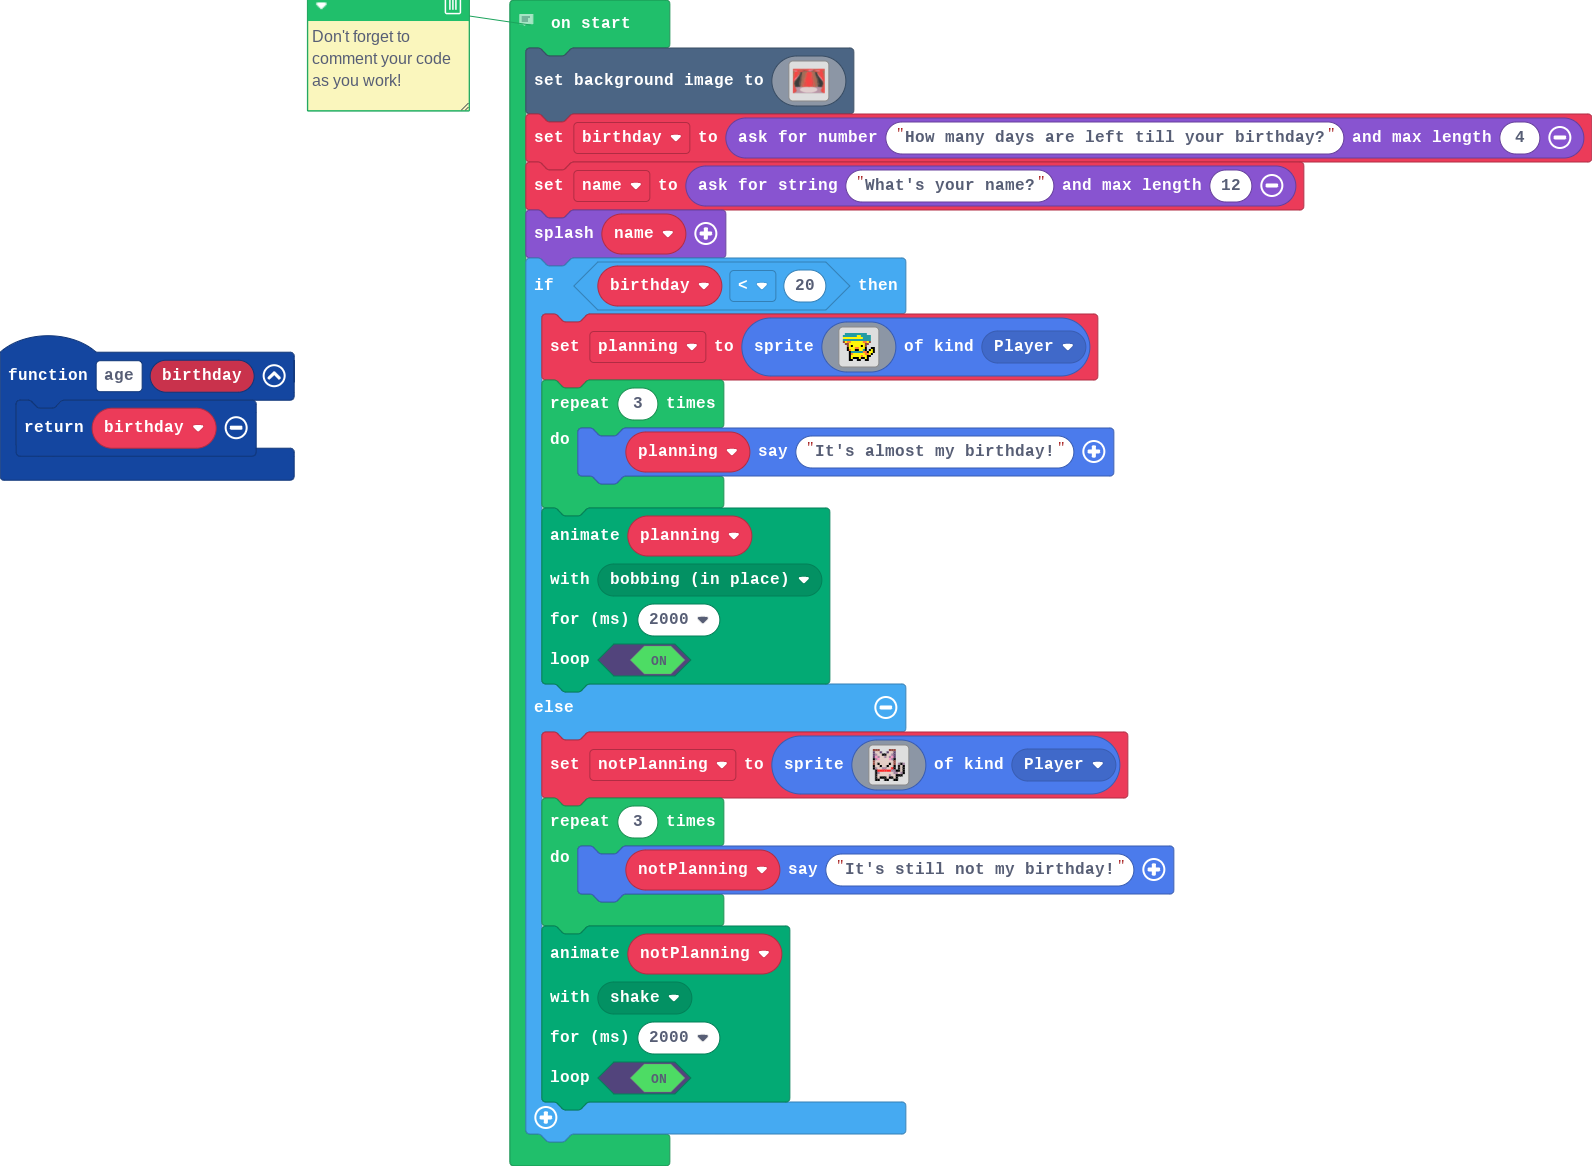
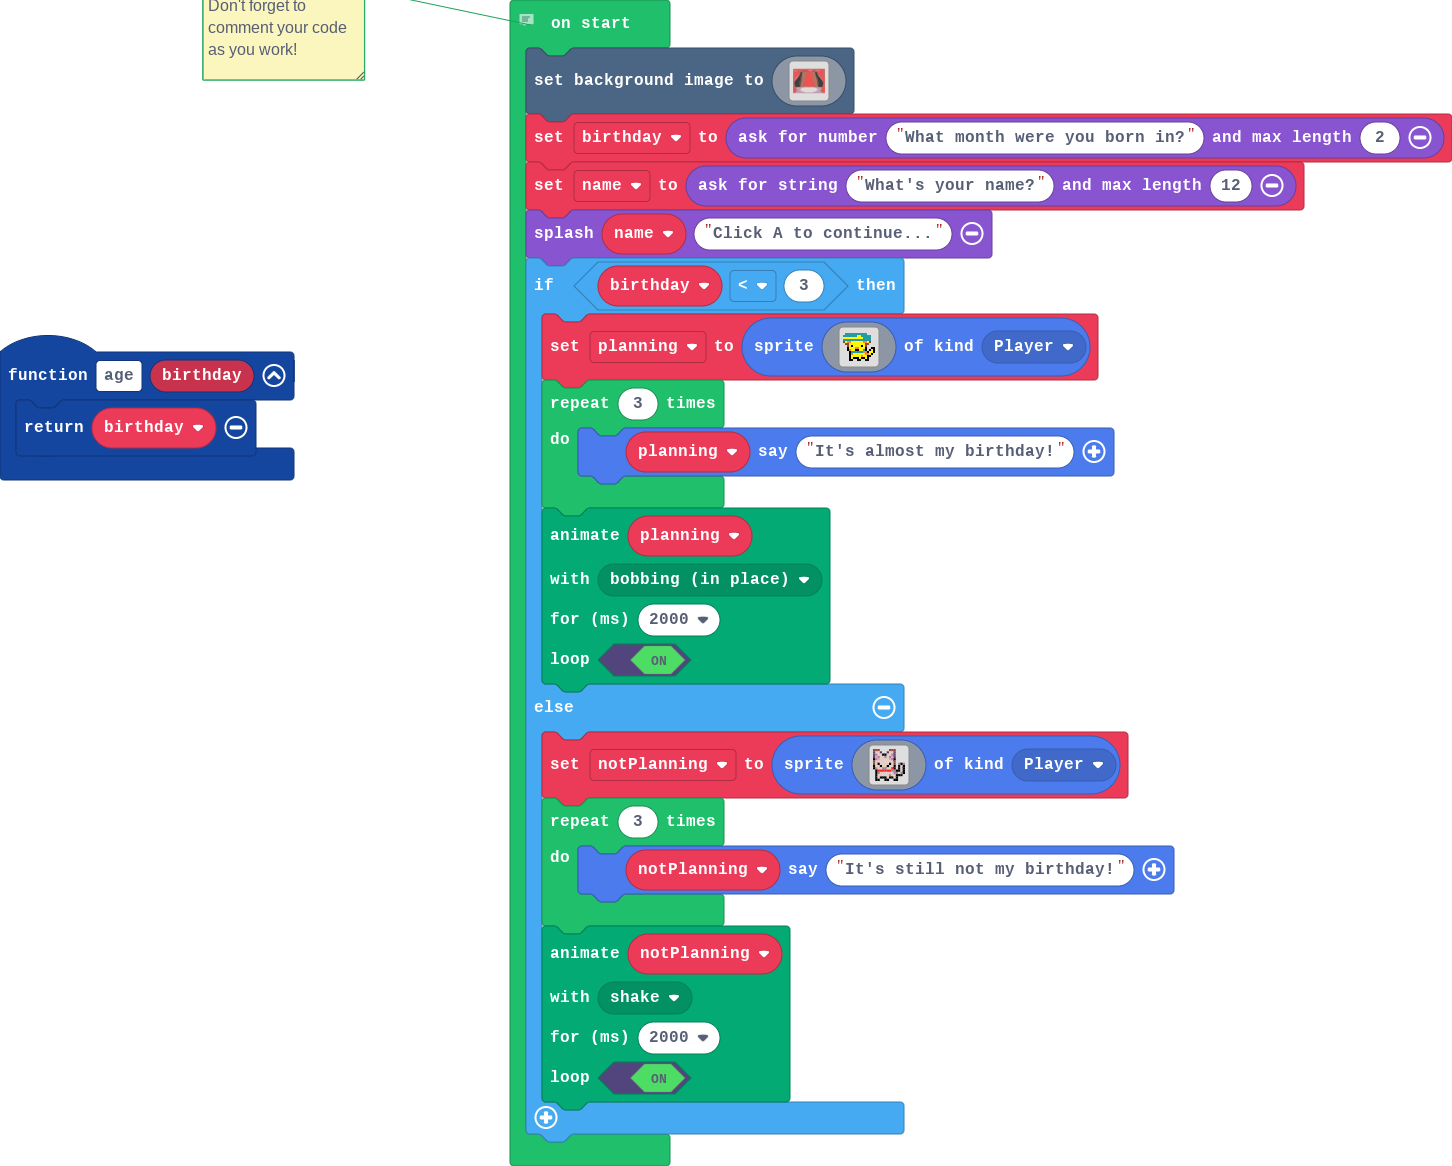
Update main.blocks, main.ts

Changed region(s): [[0.124, 0.0, 0.9917, 1.0], [0.0, 0.2779, 0.2169, 0.4322]]

diff --git a/main.ts b/main.ts
@@ -132,10 +132,10 @@ scene.setBackgroundImage(img`
[2 lines of base64/hex data omitted]
     `)
-birthday = game.askForNumber("How many days are left till your birthday?", 4)
+birthday = game.askForNumber("What month were you born in?", 2)
 let name = game.askForString("What's your name?", 12)
-game.splash(name)
-if (birthday < 20) {
+game.splash(name, "Click A to continue...")
+if (birthday < 3) {
     planning = sprites.create(img`
         . 6 6 6 6 6 6 6 6 6 6 6 . . . . 
         6 6 6 6 6 6 6 5 5 6 6 6 6 6 . . 
